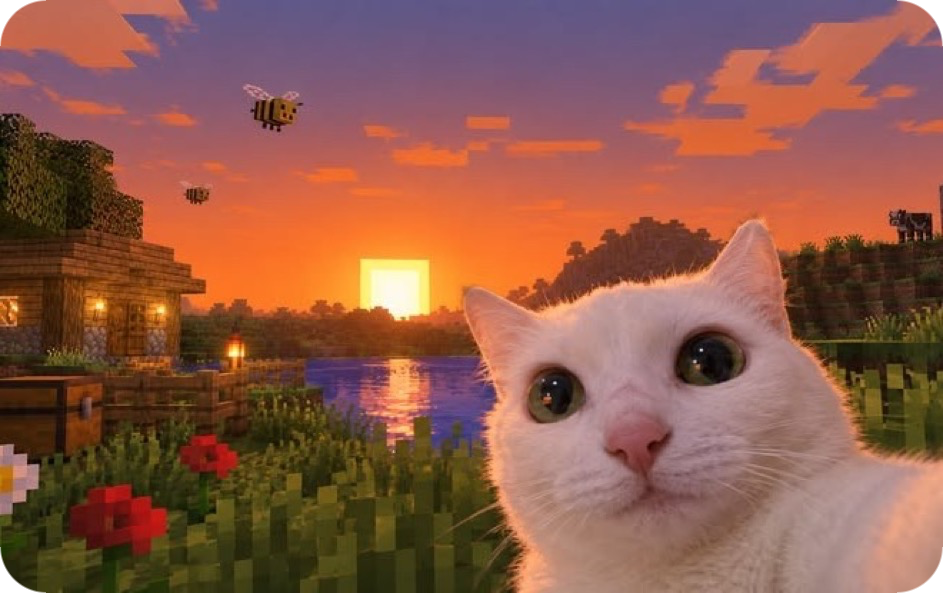
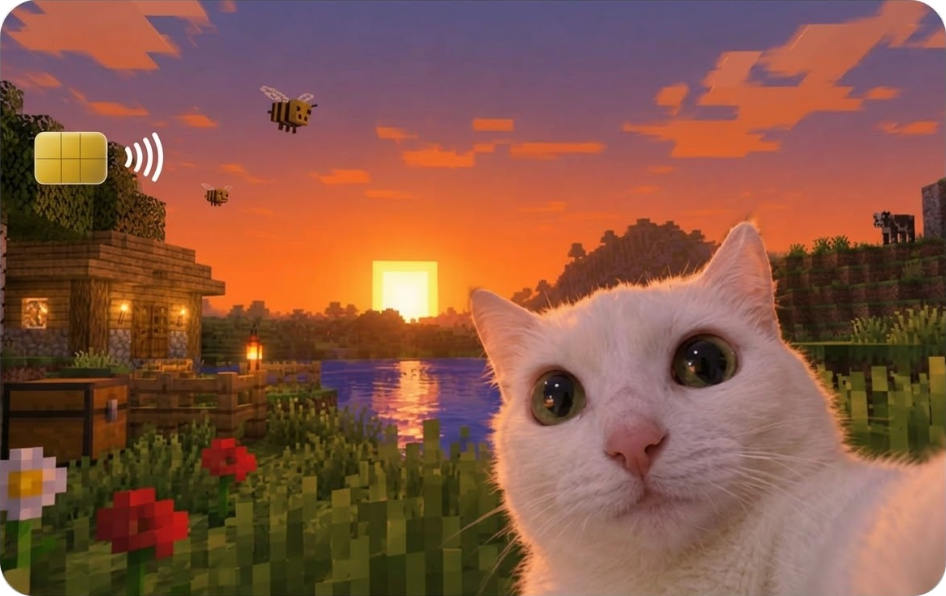
feat(theme): die-cut and update new Minecraft cat sunset bank card with rounded corners

diff --git a/student_dashboard.html b/student_dashboard.html
@@ -1336,13 +1336,10 @@
       color: #ffffff;
     }
 
-    [data-theme="minecraft"] .gold-emv-chip {
+    [data-theme="minecraft"] .gold-emv-chip,
+    [data-theme="minecraft"] .contactless-glyph {
       opacity: 0;
       pointer-events: none;
-    }
-
-    [data-theme="minecraft"] .contactless-glyph {
-      color: rgba(255, 255, 255, 0.7);
     }
 
     [data-theme="minecraft"] .card-specular-light {
